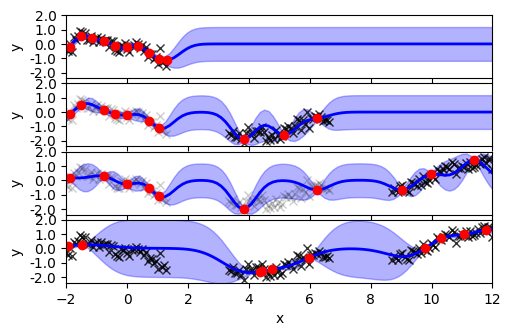
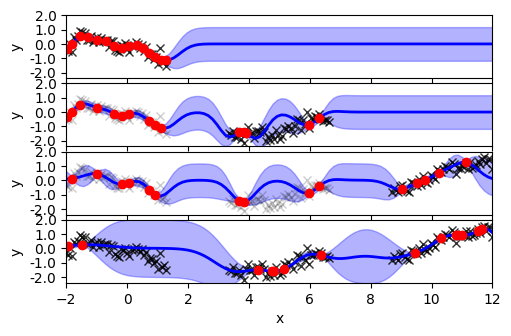
update tf and gpflow

diff --git a/src/experiments/reg_exmp.py b/src/experiments/reg_exmp.py
@@ -73,21 +73,6 @@ def get_data(shuffle):
         y = y[idxs, :]
     return X, y
 
-def simple_training_loop(model: GPflow.models.GPModel,
-                         maxiter=1000,
-                         logging_epoch_freq: int = 10,
-                         learning_rate: float = 0.001,
-                         **kwargs):
-    # optimizer = tf.optimizers.Adam(learning_rate=learning_rate)
-    optimizer = GPflow.optimizers.Scipy()
-    iteration = 0
-    while iteration < maxiter:
-        optimizer.minimize(model.training_loss, model.trainable_variables)
-        if iteration % logging_epoch_freq == 0:
-            tf.print(f"Epoch {iteration}: Loss (train) {model.training_loss()}")
-            # tf.print(f"Epoch {iteration}")
-        iteration += 1
-
 
 def plot_VFE_optimized(M, use_old_Z, shuffle):
     fig, axs = plt.subplots(4, 1, figsize=figsize(1, ratio=12.0/19.0), sharey=True, sharex=True)
@@ -109,18 +94,14 @@ def plot_VFE_optimized(M, use_old_Z, shuffle):
     model1.likelihood.variance.assign(0.001)
     model1.kernel.variance.assign(1.0)
     model1.kernel.lengthscales.assign(0.8)
-    #GPflow.set_trainable(model1.likelihood.variance, True)
-    #GPflow.set_trainable(model1.kernel.variance, True)
-    #GPflow.set_trainable(model1.kernel.lengthscales, True)
-    #simple_training_loop(model1, learning_rate=0.05, maxiter=8, logging_epoch_freq=1)
     optimizer = GPflow.optimizers.Scipy()
     optimizer.minimize(model1.training_loss, model1.trainable_variables)
-    GPflow.utilities.print_summary(model1)
+    #GPflow.utilities.print_summary(model1)
 
     # plot prediction
     xx = np.linspace(-2, 12, 100)[:, None]
     mu1, Su1, Zopt = plot_model(model1, axs[0], X1, y1, xx, seen_x, seen_y)
-    print(mu1, Su1, Zopt)
+    # print(mu1, Su1, Zopt)
 
     # now call online method on the second portion of the data
     X2 = X[gap:2*gap, :]
@@ -141,12 +122,13 @@ def plot_VFE_optimized(M, use_old_Z, shuffle):
     # print(f'Kaa1: {Kaa1}')
 
     Zinit = init_Z(Zopt.numpy(), X2, use_old_Z)
+    print(f'Z_init: {Zinit}')
     model2 = src.models.osgpr.OSGPR((X2, y2), GPflow.kernels.RBF(1), mu1, Su1, Kaa1,
         Zopt, Zinit)
     # print(model1.kernel.variance)
-    model2.likelihood.variance.assign(model1.likelihood.variance.numpy())
-    model2.kernel.variance.assign(model1.kernel.variance.numpy())
-    model2.kernel.lengthscales.assign(model1.kernel.lengthscales.numpy())
+    model2.likelihood.variance.assign(model1.likelihood.variance)
+    model2.kernel.variance.assign(model1.kernel.variance)
+    model2.kernel.lengthscales.assign(model1.kernel.lengthscales)
     # model2.optimize(disp=1)
     #simple_training_loop(model2, learning_rate=0.000005)
     optimizer = GPflow.optimizers.Scipy()
@@ -175,14 +157,14 @@ def plot_VFE_optimized(M, use_old_Z, shuffle):
     Zinit = init_Z(Zopt.numpy(), X3, use_old_Z)
     model3 = src.models.osgpr.OSGPR((X3, y3), GPflow.kernels.RBF(1), mu2, Su2, Kaa2,
         Zopt, Zinit)
-    model3.likelihood.variance.assign(model2.likelihood.variance.numpy())
-    model3.kernel.variance.assign(model2.kernel.variance.numpy())
-    model3.kernel.lengthscales.assign(model2.kernel.lengthscales.numpy())
+    model3.likelihood.variance.assign(model2.likelihood.variance)
+    model3.kernel.variance.assign(model2.kernel.variance)
+    model3.kernel.lengthscales.assign(model2.kernel.lengthscales)
     # model3.optimize(disp=1)
     optimizer = GPflow.optimizers.Scipy()
     optimizer.minimize(model1.training_loss, model1.trainable_variables)
     mu3, Su3, Zopt = plot_model(model3, axs[2], X3, y3, xx, seen_x, seen_y)
-    print(mu3, Su3, Zopt)
+    # print(mu3, Su3, Zopt)
 
     Z4 = X[np.random.permutation(X.shape[0])[0:M], :]
     model4 = GPflow.models.SGPR((X, y), GPflow.kernels.RBF(1), Z4)
@@ -196,6 +178,7 @@ def plot_VFE_optimized(M, use_old_Z, shuffle):
     # plot prediction
     xx = np.linspace(-2, 12, 100)[:, None]
     mu4, Su4, Zopt4 = plot_model(model4, axs[3], X, y, xx, None, None)
+    # print(mu4, Su4, Zopt)
     axs[3].set_xlabel('x')
     fig.savefig('src/experiments/plots/online_exmpl.png', bbox_inches='tight')
 
@@ -207,5 +190,4 @@ if __name__ == '__main__':
     shuffle = False
 
     np.random.seed(seed)
-    np.random.seed(seed)
-    plot_VFE_optimized(10, use_old_Z, shuffle)
+    plot_VFE_optimized(15, use_old_Z, shuffle)

diff --git a/src/models/osgpr.py b/src/models/osgpr.py
@@ -43,7 +43,8 @@ class OSGPR(GPModel, gpflow.models.InternalDataTrainingLossMixin):
         self.Y = Y
         likelihood = Gaussian()
         self.inducing_variable = gpflow.models.util.inducingpoint_wrapper(inducing_variable)
-        GPModel.__init__(self, kernel, likelihood, mean_function, self.inducing_variable.Z.shape[0])
+
+        GPModel.__init__(self, kernel, likelihood, mean_function, inducing_variable.size)
 
         self.num_data = X.shape[0]
         self.num_latent = Y.shape[1]
